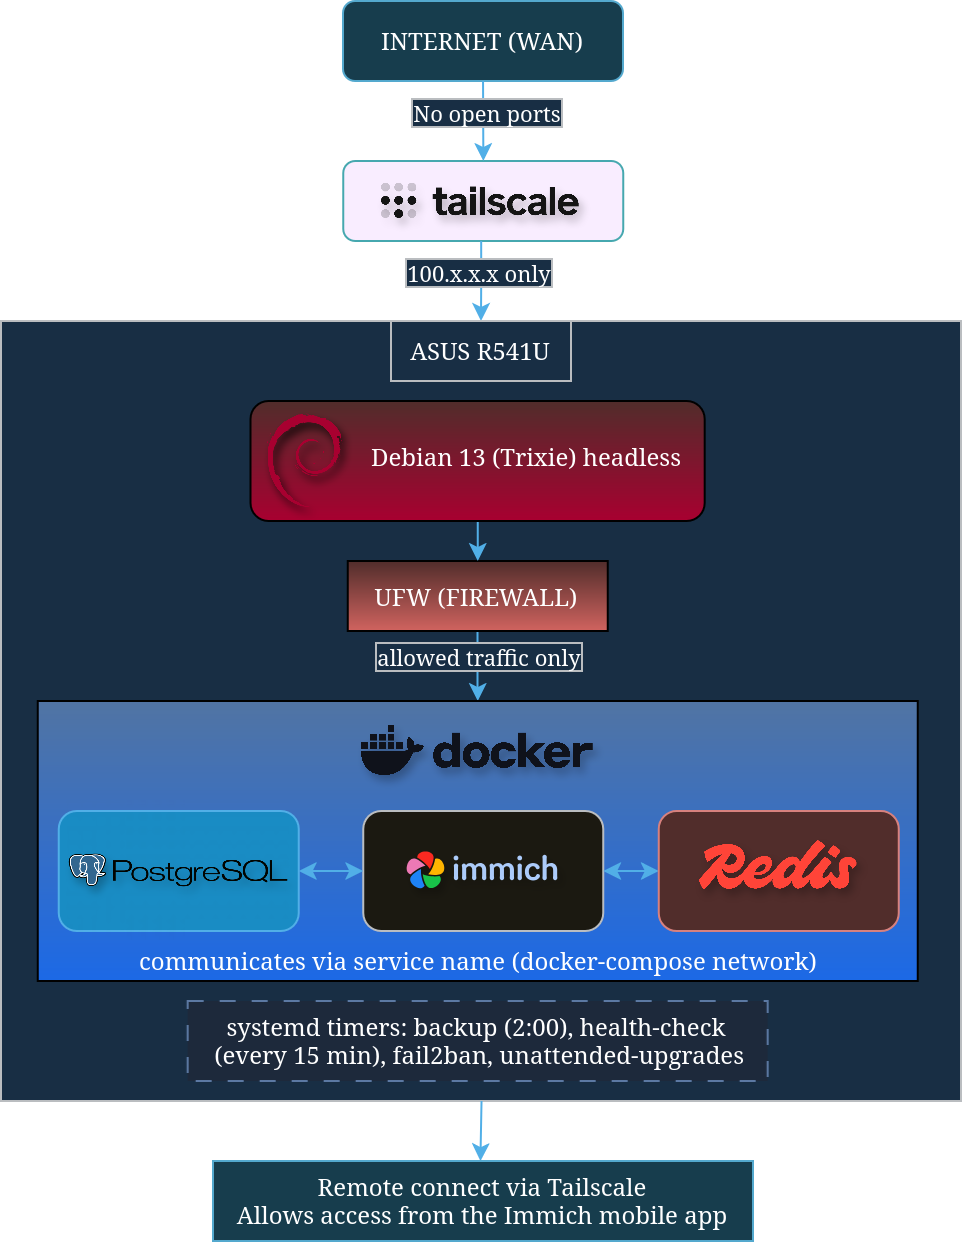
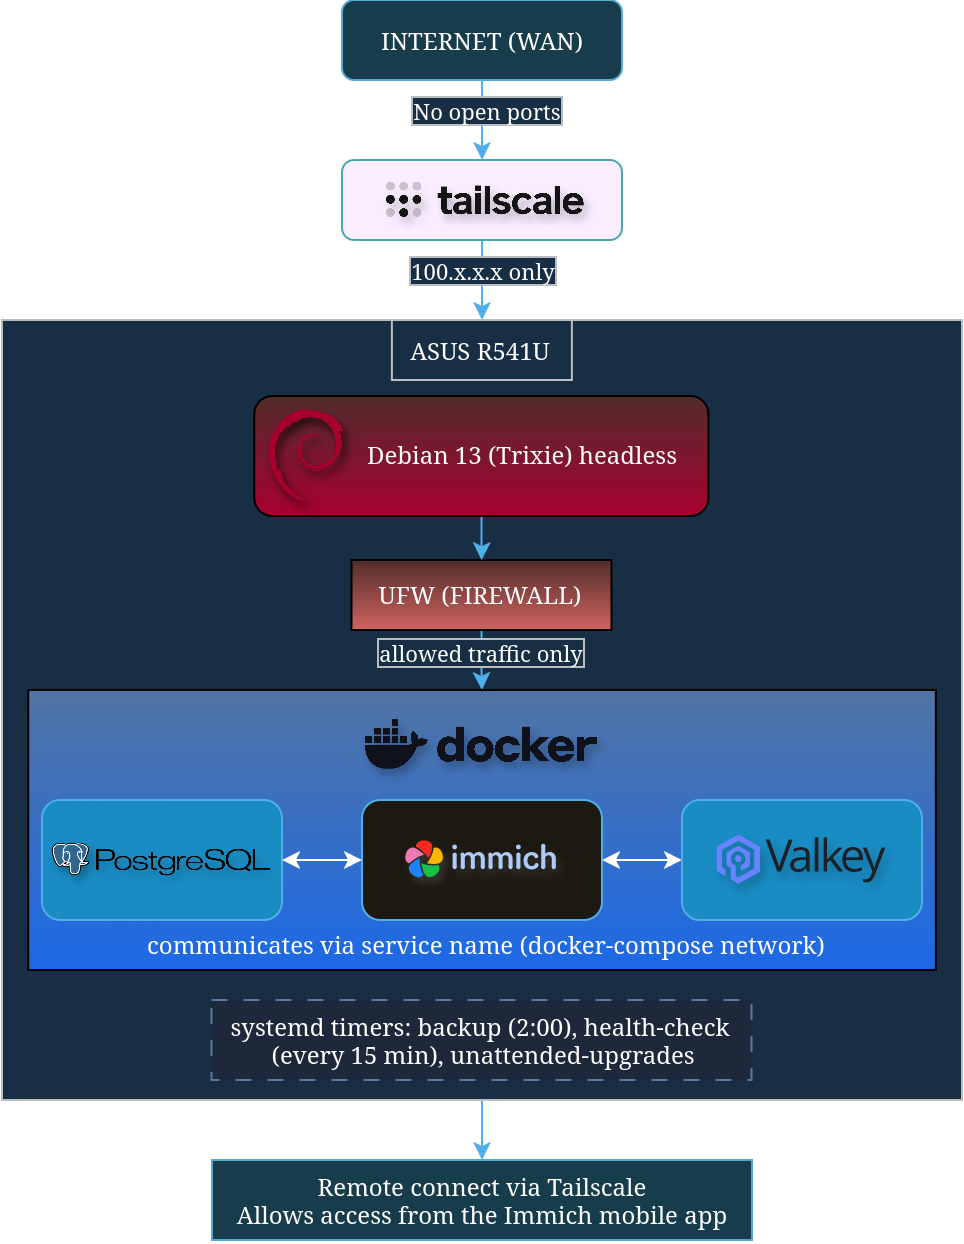
docs: replace Redis with Valkey references
Immich's compose file has been running Valkey this whole time, not
Redis, container names just kept the old name for compatibility.
Full explanation in the new 'Valkey over Redis' section of architecture.md.

diff --git a/docs/architecture.md b/docs/architecture.md
@@ -16,7 +16,7 @@ Tailscale creates a private VPN, so I can reach the server remotely
 without exposing it to the public internet. UFW only allows traffic
 from the Tailscale IP range, blocking everything else. Once traffic
 reaches the server, it goes to the right Docker container. Inside
-Docker, Immich, PostgreSQL, and Redis talk to each other using service
+Docker, Immich, PostgreSQL, and Valkey talk to each other using service
 names declared in docker-compose.yml.
 
 ## Why these choices
@@ -77,6 +77,21 @@ Unlike a rolling release, Debian freezes package versions for each
 stable release. This means less risk of something breaking after an
 update. Security patches still come regularly for those frozen
 versions, so the system doesn't fall behind on fixes.
+
+### Valkey over Redis
+
+Back in 2024, Redis changed its license from BSD to a source-available model, 
+restricting how cloud providers could offer it as a managed service. 
+
+In response, a group of companies (including AWS, Google, and Oracle) 
+forked the last BSD-licensed version of Redis, called Valkey, 
+under the Linux Foundation. Valkey is wire-compatible with Redis, 
+meaning the same commands, client libraries, and environment variables 
+work with both, without any code changes.
+
+For legacy compatibility, Immich left "redis" in container names and other references, 
+except for one crucial line in the `image:` field of docker-compose.yml, 
+which led me to believe I had been using Redis this whole time.
 
 ### Ethernet over WiFi
 

diff --git a/README.md b/README.md
@@ -11,7 +11,7 @@ included.
 - Operating system: Debian 13 (Trixie)
 - Container runtime: Docker Engine + Compose
 - VPN: Tailscale
-- Applications: Immich (Photos), PostgreSQL, Redis
+- Applications: Immich (Photos), PostgreSQL, Valkey
 
 ## Scripts
 
@@ -61,7 +61,7 @@ included.
 
 ## Roadmap
 
-- [x] Initial setup (Docker, Immich, PostgreSQL, Redis)
+- [x] Initial setup (Docker, Immich, PostgreSQL, Valkey)
 - [x] Security hardening (SSH keys, UFW)
 - [x] Automated backups and health checks
 - [ ] More automation for weekly/monthly maintenance tasks
